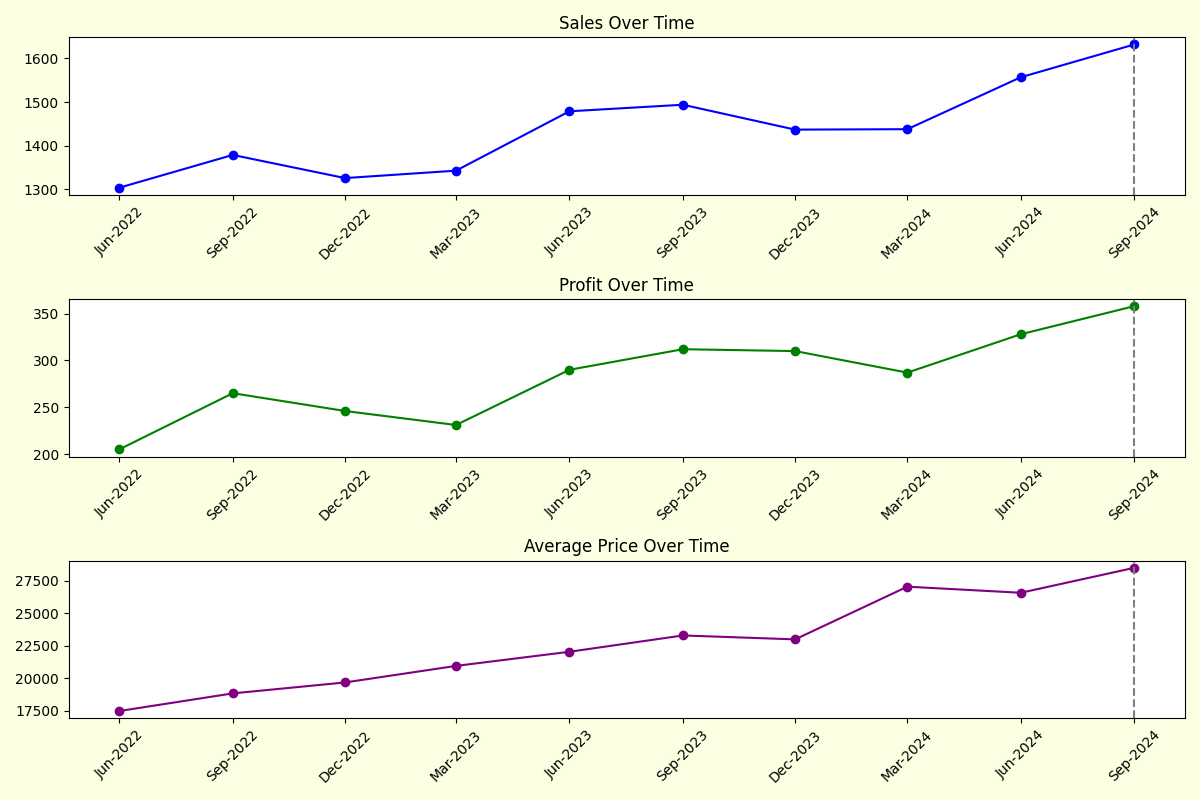
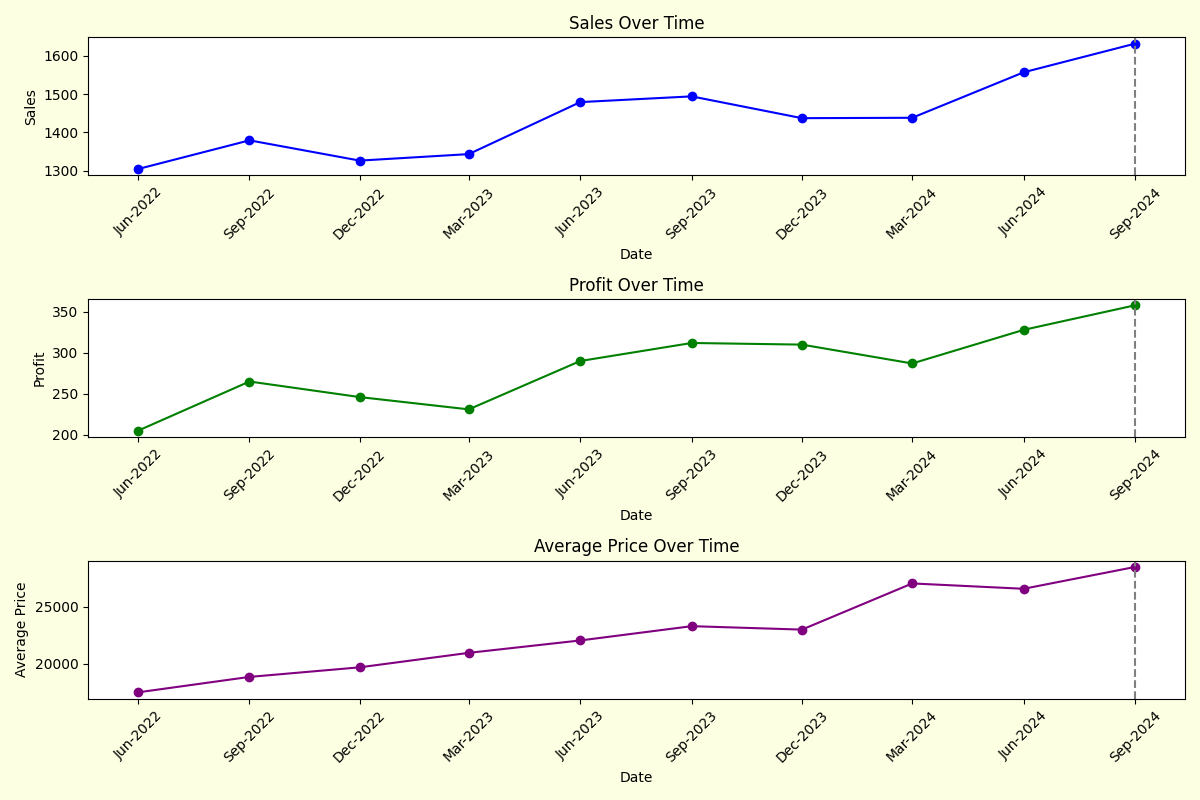
arrow change, chart rename

diff --git a/Templates/index.html b/Templates/index.html
@@ -21,30 +21,34 @@
     <title>Company Selection</title>
     <link href="static/css/tailwind-output.css" rel="stylesheet">
 </head>
-<body class="bg-yellow-50 p-8 flex items-center justify-center min-h-screen">
-    <div class="bg-white p-8 rounded-lg shadow-lg max-w-lg w-full">
-        <h2 class="text-center text-3xl font-semibold text-blue-900 mb-6">Select a Company</h2>
-        <form action="/predict" method="POST" class="space-y-6">
-            <div>
-                <label for="company" class="block text-lg font-medium text-blue-900 mb-2">Search for a company:</label>
-                <input 
-                    type="text" 
-                    name="company" 
-                    id="company" 
-                    list="company-list" 
-                    placeholder="Type to search..." 
-                    class="w-full p-3 border border-blue-400 rounded-lg focus:outline-none focus:ring-2 focus:ring-blue-400 text-blue-900"
-                >
-                <datalist id="company-list">
-                    {% for company in companies %}
-                        <option value="{{ company }}"></option>
-                    {% endfor %}
-                </datalist>
-            </div>
-            <button type="submit" class="w-full py-3 bg-blue-400 text-white font-semibold rounded-lg hover:bg-blue-900 transition duration-300">
-                Enter
-            </button>
-        </form>
+<body class="bg-yellow-50 p-8 flex flex-col items-center justify-center min-h-screen">
+    <div  class="p-8 max-w-lg w-full">
+        <h1 class="text-center text-5xl font-bold text-blue-900 mb-6">Sureshot</h1>
+        <div class="bg-white p-8 rounded-lg shadow-lg max-w-lg w-full">
+            <h2 class="text-center text-2xl font-semibold text-blue-900 mb-6">Select a Company</h2>
+            <form action="/predict" method="POST" class="space-y-6">
+                <div>
+                    <label for="company" class="block text-lg font-medium text-blue-900 mb-2">Search for a company:</label>
+                    <input 
+                        type="text" 
+                        name="company" 
+                        id="company" 
+                        list="company-list" 
+                        placeholder="Type here to search..." 
+                        autocomplete="off" 
+                        class="w-full p-3 border border-blue-400 rounded-lg focus:outline-none focus:ring-2 focus:ring-blue-400 text-blue-900"
+                    >
+                    <datalist id="company-list">
+                        {% for company in companies %}
+                            <option value="{{ company }}"></option>
+                        {% endfor %}
+                    </datalist>
+                </div>
+                <button type="submit" class="w-full py-3 bg-blue-400 text-white font-semibold rounded-lg hover:bg-blue-900 transition duration-300">
+                    Enter
+                </button>
+            </form>
+        </div>
     </div>
 </body>
 </html>

diff --git a/Templates/result.html b/Templates/result.html
@@ -9,22 +9,26 @@
     <style>
         .arrow-up {
             color: green;
+            font-size: 1.75rem;
         }
         .arrow-down {
             color: red;
+            font-size: 1.75rem;
         }
         .arrow-neutral {
             color: gray;
+            font-size: 1.5rem;
         }
     </style>
 </head>
 <body class="bg-yellow-50 p-8">
     <div class="max-w-4xl mx-auto bg-yellow-50 p-2">
-        <h2 class="text-3xl font-bold text-blue-900 text-center mb-6">Sureshot for {{ company_name }}</h2>
+        <h2 class="text-3xl font-bold text-blue-900 text-center mb-6">Sureshot</h2>
+        <h2 class="text-3xl font-bold text-blue-900 text-center mb-6">{{ company_name }}</h2>
 
-        <div class="space-y-2 justify-center flex flex-row gap-6">
+        <div class="space-y-2 justify-center items-center leading-4 flex flex-row gap-6">
             <p class="text-lg text-blue-900">
-                <span class="font-semibold">Recent Sales:</span> 
+                <span class="font-semibold">Predicted Sales:</span> 
                 {% if prediction['Sales'] is not none %}
                     {{ prediction['Sales'] | round(2) }} crores
                 {% else %}
@@ -54,14 +58,13 @@
                 {% endif %}
             </p>
         </div>
+    </div>
+    <div class="mt-8 flex justify-center">
+        <img src="{{ graph_path }}" alt="Prediction Graph" class="rounded-lg max-w-full">
+    </div>
 
-        <div class="mt-8 flex justify-center">
-            <img src="{{ graph_path }}" alt="Prediction Graph" class="rounded-lg max-w-full h-auto">
-        </div>
-
-        <div class="mt-8 text-center">
-            <a href="/" class="text-blue-400 hover:text-blue-500 font-semibold">Go back</a>
-        </div>
+    <div class="mt-8 text-center">
+        <a href="/" class="text-blue-400 hover:text-blue-500 font-semibold">Go back</a>
     </div>
 </body>
 </html>

diff --git a/Templates/prediction.html b/Templates/prediction.html
@@ -16,11 +16,11 @@
     <div class="max-w-4xl mx-auto bg-yellow-50">
         <h2 class="text-3xl font-bold text-blue-900 text-center mb-6">Performance Graph for <b>{{ company_name }}</b></h2>
         <p class="text-blue-400 text-center mb-8">Click on the prediction area of the graph to log in and view the prediction.</p>
-        <a href="/login" class="flex justify-center">
-            <img id="predictionGraph" src="{{ graph_path }}" alt="Prediction Graph" onclick="showLoginForm()" class="cursor-pointer rounded-lg max-w-full h-auto">
-        </a>
 
         <!-- Login Form (hidden by default) -->
     </div>
+    <a href="/login" class="flex justify-center">
+        <img id="predictionGraph" src="{{ graph_path }}" alt="Prediction Graph" onclick="showLoginForm()" class="cursor-pointer rounded-lg max-w-full h-auto">
+    </a>
 </body>
 </html>

diff --git a/static/css/tailwind-output.css b/static/css/tailwind-output.css
@@ -204,7 +204,7 @@ abbr:where([title]) {
 Remove the default font size and weight for headings.
 */
 
-h1,
+h1
 h2,
 h3,
 h4,

diff --git a/app.py b/app.py
@@ -331,9 +331,9 @@ def predict():
 
     plt.subplot(3, 1, 1)
     plt.plot(data.index, data['Sales(in crores)'], marker='o', label='Sales', color='b')
-    plt.axvline(x=data.index[-1], color='gray', linestyle='--', label='Prediction Point')
+    plt.axvline(x=data.index[-1], color='gray', linestyle='--', label='Recent Value')
     plt.scatter(data.index[-3], None, color='r', label='Predicted Sales')  # Masked
-    plt.title('Sales Over Time')
+    plt.title('Sales Chart')
     plt.xlabel('Date')
     plt.ylabel('Sales')
     plt.gca().xaxis.set_major_formatter(mdates.DateFormatter('%b-%Y'))
@@ -344,9 +344,9 @@ def predict():
      # Plot profit (masked prediction)
     plt.subplot(3, 1, 2)
     plt.plot(data.index, data['Profit(in crores)'], marker='o', label='Profit', color='g')
-    plt.axvline(x=data.index[-1], color='gray', linestyle='--', label='Prediction Point')
+    plt.axvline(x=data.index[-1], color='gray', linestyle='--', label='Recent Value')
     plt.scatter(data.index[-1], None, marker='o', color='r', label='Predicted Profit')  # Masked
-    plt.title('Profit Over Time')
+    plt.title('Profit Chart')
     plt.xlabel('Date')
     plt.ylabel('Profit')
     plt.gca().xaxis.set_major_formatter(mdates.DateFormatter('%b-%Y'))
@@ -357,9 +357,9 @@ def predict():
     # Plot average price (masked prediction)
     plt.subplot(3, 1, 3)
     plt.plot(data.index, data['Avg. Price'], marker='o', label='Average Price', color='purple')
-    plt.axvline(x=data.index[-1], color='gray', linestyle='--', label='Prediction Point')
+    plt.axvline(x=data.index[-1], color='gray', linestyle='--', label='Recent Value')
     plt.scatter(data.index[-1], None, marker='o', color='r', label='Predicted Average Price')  # Masked
-    plt.title('Average Price Over Time')
+    plt.title('Price Chart')
     plt.xlabel('Date')
     plt.ylabel('Average Price')
     plt.gca().xaxis.set_major_formatter(mdates.DateFormatter('%b-%Y'))
@@ -462,10 +462,18 @@ def unmask_predictions():
 
     # Plot Sales
     plt.subplot(3, 1, 1)
-    plt.plot(data.index, data['Sales(in crores)'], marker='o', label='Sales', color='b')
-    plt.axvline(x=data.index[-2], color='gray', linestyle='--', label='Prediction Point')
-    plt.scatter(data.index[-1], None, color='r', label='Predicted Sales')  # Masked
-    plt.title('Sales Over Time')
+    plt.plot(data.index[:-1], data['Sales(in crores)'][:-1], marker='o', label='Sales', color='b')
+
+    # Plot the second-to-last to last segment in red
+    plt.plot(data.index[-2:], data['Sales(in crores)'].iloc[-2:], color='r', marker='o', label='Predicted Sales')
+    plt.axvline(x=data.index[-2], color='gray', linestyle='--', label='Recent Value')
+    point_x = data.index[-2]
+    point_y = data['Sales(in crores)'].iloc[-2]  # Value for the last data point
+    plt.scatter(point_x, point_y, color='b', s=50, zorder=2)
+    last_point_x = data.index[-1]
+    last_point_y = data['Sales(in crores)'].iloc[-1]  # Value for the last data point
+    plt.scatter(last_point_x, last_point_y, color='r', s=50, zorder=2)  # Masked
+    plt.title('Sales Chart')
     plt.xlabel('Date')
     plt.ylabel('Sales')
     plt.legend()
@@ -476,8 +484,8 @@ def unmask_predictions():
     # Plot Profit
     plt.subplot(3, 1, 2)
     plt.plot(data.index, data['Profit(in crores)'], marker='o', label='Profit', color='g')
-    plt.axvline(x=data.index[-2], color='gray', linestyle='--', label='Prediction Point')  # Masked
-    plt.title('Profit Over Time')
+    plt.axvline(x=data.index[-2], color='gray', linestyle='--', label='Recent Value')  # Masked
+    plt.title('Profit Chart')
     plt.xlabel('Date')
     plt.ylabel('Profit')
     plt.legend()
@@ -488,8 +496,8 @@ def unmask_predictions():
     # Plot Average Price
     plt.subplot(3, 1, 3)
     plt.plot(data.index, data['Avg. Price'], marker='o', label='Average Price', color='purple')
-    plt.axvline(x=data.index[-2], color='gray', linestyle='--', label='Prediction Point') # Masked
-    plt.title('Average Price Over Time')
+    plt.axvline(x=data.index[-2], color='gray', linestyle='--', label='Recent Value') # Masked
+    plt.title('Price Chart')
     plt.xlabel('Date')
     plt.ylabel('Average Price')
     plt.legend()
